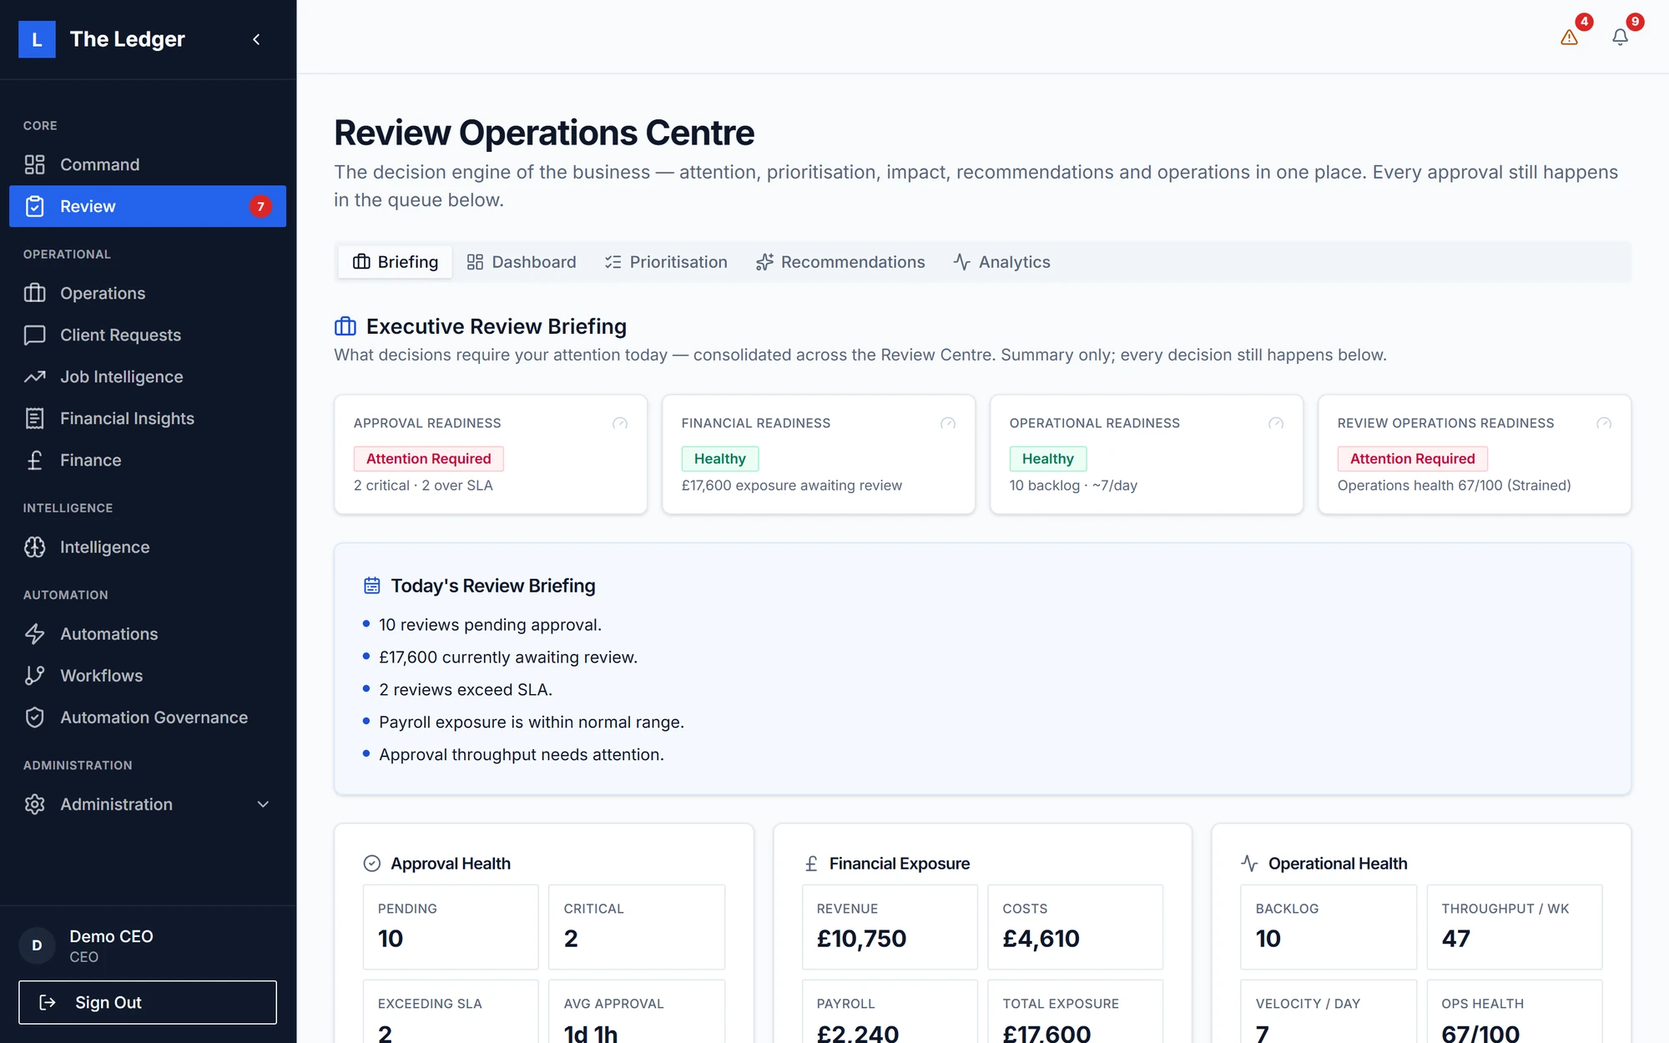
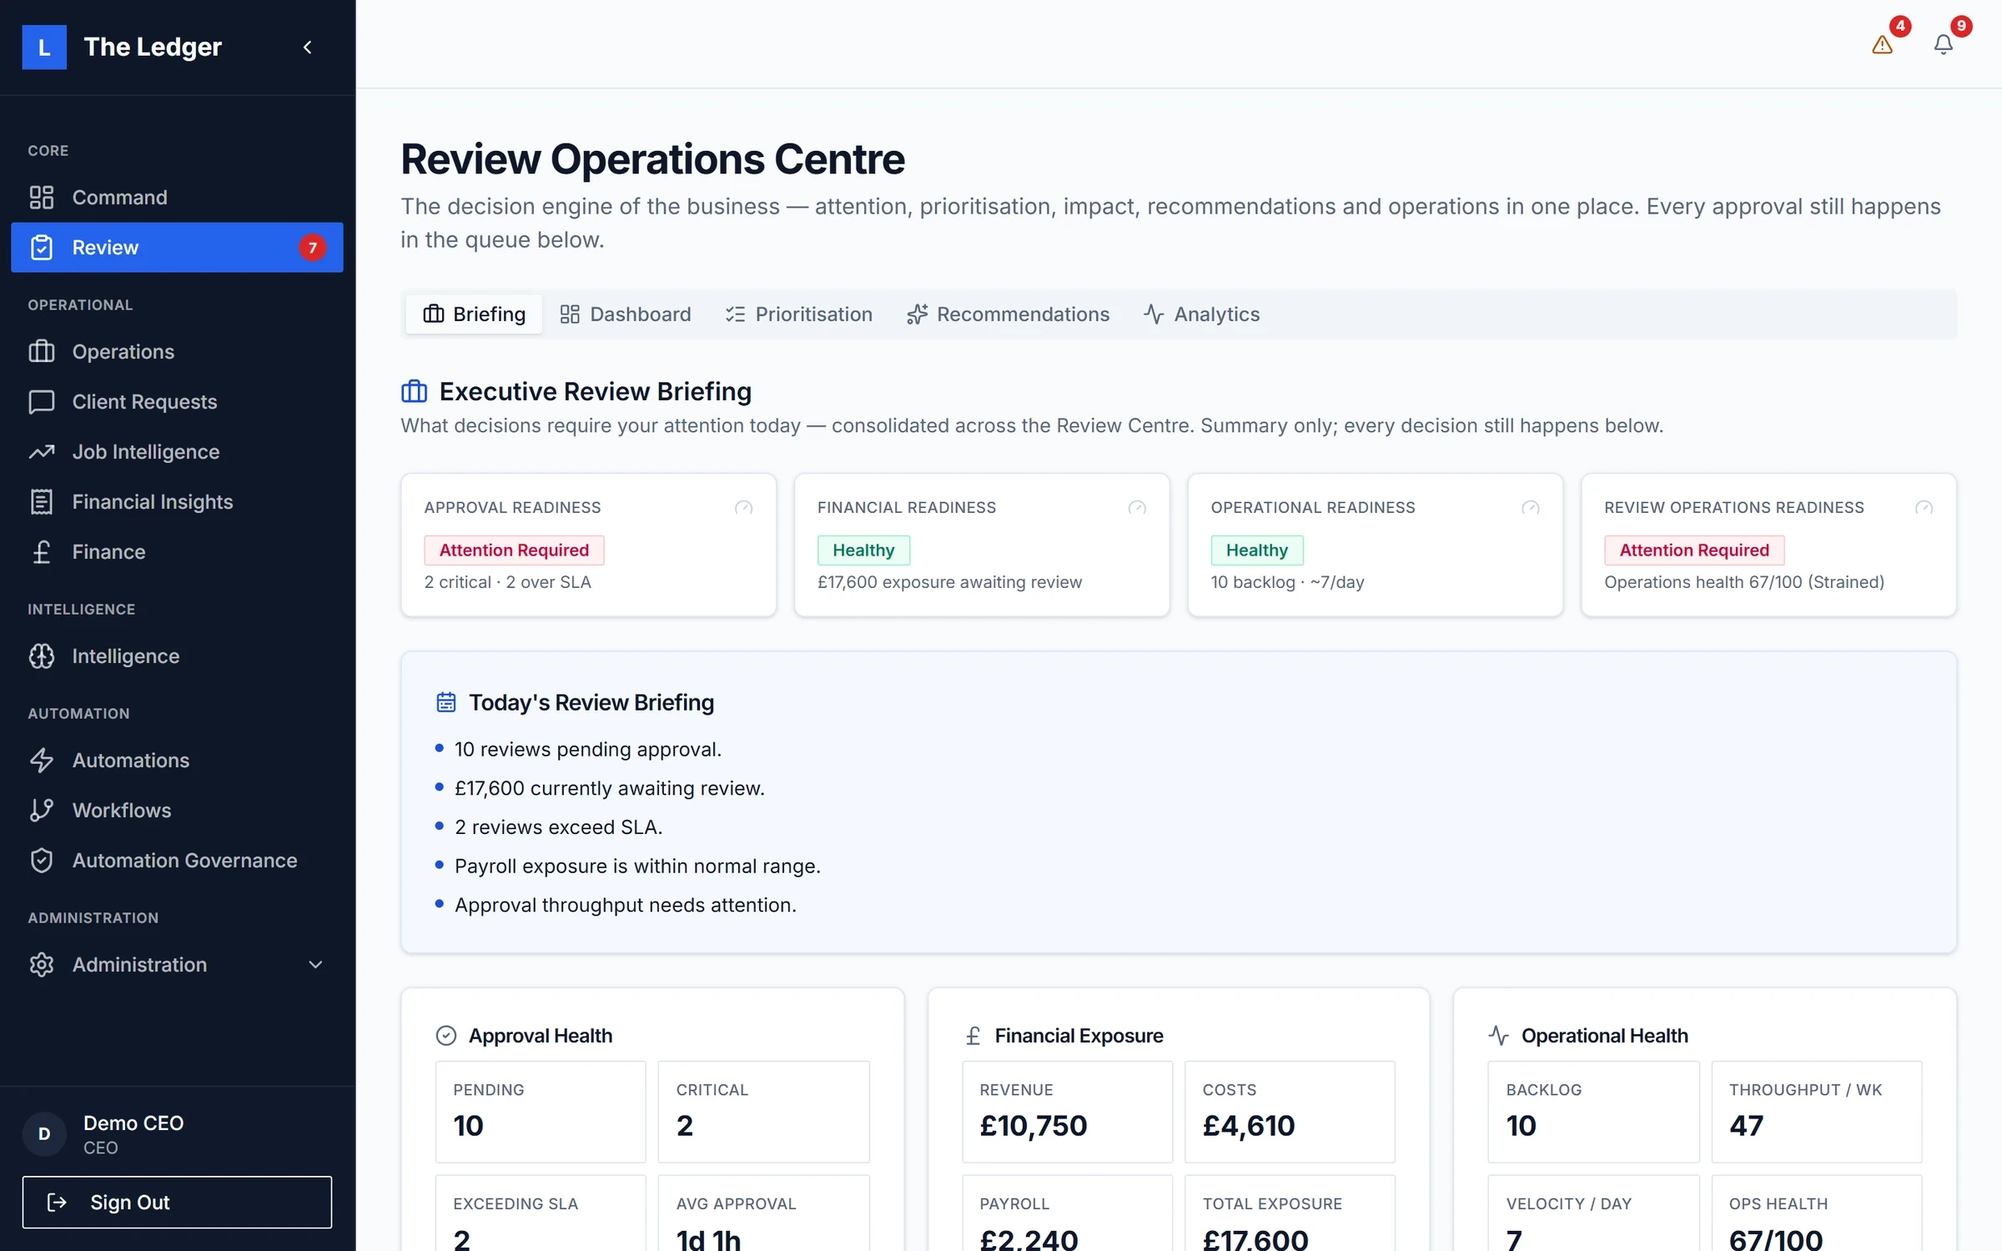
Case studies: peeking 5-slide carousel, high-res captures, technical captions
Centre slide large with half-cut neighbours; arrows, dots, keys, click-to-centre.
All images re-captured at 2x from the live sites and local Ledger (all roles + client portal).
Drive Pro slide flags the Facebook-imported posts. TWB uses new page sections.

Claude-Session: https://claude.ai/code/session_01MwiYMVwt332RJDN3aMr7pJ

diff --git a/src/views.js b/src/views.js
@@ -17,10 +17,13 @@ function caseHTML(id) {
   const bars = c.bars ? `<figure class="chart v-bars v-rise"><figcaption>${esc(c.bars.caption)}</figcaption>${c.bars.rows.map((r) => `<div class="bar-row"><span class="bar-label">${esc(r.label)}</span><span class="track" role="img" aria-label="${esc(r.label)}: ${esc(r.val)}"><i class="fill${r.warn ? ' warn' : ''}" style="--w:${r.w}%${r.lo ? `;--lo:${(r.lo / r.w * 100).toFixed(1)}%` : ''}"></i></span><b class="val">${esc(r.val)}</b></div>`).join('')}<p class="fig-note">${esc(c.bars.note)}</p></figure>` : '';
   const shot = c.shot ? `<figure class="v-shot v-rise"><div class="v-shot-bar" aria-hidden="true"><i></i><i></i><i></i></div><img src="${esc(c.shot.src)}" alt="${esc(c.shot.alt)}" width="1440" height="900" decoding="async">${c.shot.mobile ? `<img class="shot-phone" src="${esc(c.shot.mobile)}" alt="The same page on a phone" width="390" height="844" decoding="async">` : ''}</figure>` : '';
   const n = c.gallery ? c.gallery.length : 0;
-  const gallery = n ? `<section class="v-gal v-rise" role="region" aria-roledescription="carousel" aria-label="${esc(c.title)} screenshots" tabindex="-1">
-    <div class="v-shot-bar" aria-hidden="true"><i></i><i></i><i></i></div>
-    <div class="v-gal-track" tabindex="0" aria-label="Screenshots, use the arrow keys to move between them">${c.gallery.map((g, k) => `<figure class="v-gal-slide" role="group" aria-roledescription="slide" aria-label="${k + 1} of ${n}"><img src="${esc(g.src)}" alt="${esc(g.alt)}" width="1440" height="900" decoding="async"${k ? ' loading="lazy"' : ''}>${k === 0 && c.shot && c.shot.mobile ? `<img class="shot-phone" src="${esc(c.shot.mobile)}" alt="The same product on a phone" width="390" height="844" decoding="async">` : ''}<figcaption>${esc(g.cap)}</figcaption></figure>`).join('')}</div>
-    <div class="v-gal-ctl"><button type="button" class="v-gal-btn" data-dir="-1" aria-label="Previous screenshot">${ARROW_L}</button><div class="v-gal-dots" role="group" aria-label="Choose a screenshot">${c.gallery.map((g, k) => `<button type="button" data-i="${k}" aria-label="Screenshot ${k + 1}"${k ? '' : ' aria-current="true"'}></button>`).join('')}</div><span class="v-gal-n" aria-live="polite">1 / ${n}</span><button type="button" class="v-gal-btn" data-dir="1" aria-label="Next screenshot">${ARROW_R}</button></div>
+  const gallery = n ? `<section class="v-gal v-rise" role="region" aria-roledescription="carousel" aria-label="${esc(c.title)} screenshots">
+    <div class="v-gal-stage">
+      <div class="v-gal-track" tabindex="0" aria-label="Screenshots. Use the left and right arrow keys to move between them.">${c.gallery.map((g, k) => `<figure class="v-gal-slide${k ? '' : ' is-active'}" role="group" aria-roledescription="slide" aria-label="${k + 1} of ${n}"><div class="v-gal-frame"><img src="${esc(g.src)}" alt="${esc(g.alt)}" width="2400" height="1500" decoding="async"${k > 1 ? ' loading="lazy"' : ''}>${g.tag ? `<span class="v-gal-tag">${esc(g.tag)}</span>` : ''}</div><figcaption>${esc(g.cap)}</figcaption></figure>`).join('')}</div>
+      <button type="button" class="v-gal-btn v-gal-prev" data-dir="-1" aria-label="Previous screenshot">${ARROW_L}</button>
+      <button type="button" class="v-gal-btn v-gal-next" data-dir="1" aria-label="Next screenshot">${ARROW_R}</button>
+    </div>
+    <div class="v-gal-ctl"><div class="v-gal-dots" role="group" aria-label="Choose a screenshot">${c.gallery.map((g, k) => `<button type="button" data-i="${k}" aria-label="Screenshot ${k + 1}"${k ? '' : ' aria-current="true"'}></button>`).join('')}</div><span class="v-gal-n" aria-live="polite">1 / ${n}</span></div>
   </section>` : '';
   const embed = c.embed ? `<figure class="v-shot embed v-rise"><div class="shot-bar"><i aria-hidden="true"></i><i aria-hidden="true"></i><i aria-hidden="true"></i><span class="embed-title">Live dashboard · fully interactive</span><button class="embed-exit" type="button">Done</button><a class="embed-open" href="${esc(c.embed.src)}" target="_blank" rel="noopener">Open full screen${ARROW_UR}</a></div><iframe tabindex="-1" src="${esc(c.embed.src)}" title="${esc(c.embed.title)}" loading="lazy"></iframe><button class="embed-veil" type="button" aria-label="Activate the interactive dashboard"><span>Click to explore</span></button></figure>` : '';
   const sections = c.sections.map((s) => `<section class="v-sec v-rise"><h2>${esc(s.h)}</h2><ul>${s.items.map((t) => `<li>${esc(t)}</li>`).join('')}</ul></section>`).join('');
@@ -36,8 +39,9 @@ function caseHTML(id) {
     <p class="v-lede v-rise">${c.lede}</p>
     <dl class="v-facts v-rise">${c.facts.map((f) => `<div><dt>${esc(f.l)}</dt><dd>${esc(f.n)}</dd></div>`).join('')}</dl>
     ${embed}
+    ${gallery}
     <div class="v-body">
-      <div class="v-main">${flow}${bars}${sections}${n ? gallery : shot}</div>
+      <div class="v-main">${flow}${bars}${sections}${n ? '' : shot}</div>
       <aside class="v-side v-rise" aria-label="Details">
         <h3>Built with</h3>
         <ul class="v-tags">${c.stack.map((t) => `<li>${esc(t)}</li>`).join('')}</ul>
@@ -149,22 +153,35 @@ export function initViews({ gsap, lenis, scrollTo }) {
     const slides = [...track.children];
     const dots = [...g.querySelectorAll('.v-gal-dots button')];
     const num = g.querySelector('.v-gal-n');
-    const prev = g.querySelector('[data-dir="-1"]');
-    const next = g.querySelector('[data-dir="1"]');
+    const prev = g.querySelector('.v-gal-prev');
+    const next = g.querySelector('.v-gal-next');
     let cur = 0;
     const set = (k) => {
       if (k === cur) return;
       cur = k;
+      slides.forEach((s, j) => s.classList.toggle('is-active', j === k));
       dots.forEach((d, j) => (j === k ? d.setAttribute('aria-current', 'true') : d.removeAttribute('aria-current')));
       num.textContent = `${k + 1} / ${slides.length}`;
       prev.disabled = k === 0; next.disabled = k === slides.length - 1;
     };
     prev.disabled = true;
-    const go = (k) => { k = Math.max(0, Math.min(slides.length - 1, k)); track.scrollTo({ left: slides[k].offsetLeft - track.offsetLeft, behavior: 'smooth' }); };
-    const onScroll = () => set(Math.round(track.scrollLeft / (slides[0].offsetWidth || 1)));
+    const go = (k) => {
+      k = Math.max(0, Math.min(slides.length - 1, k));
+      const s = slides[k];
+      track.scrollTo({ left: s.offsetLeft - (track.clientWidth - s.offsetWidth) / 2, behavior: 'smooth' });
+      set(k);
+    };
+    const onScroll = () => {
+      const mid = track.scrollLeft + track.clientWidth / 2;
+      let best = 0, d = Infinity;
+      slides.forEach((s, j) => { const dd = Math.abs(s.offsetLeft + s.offsetWidth / 2 - mid); if (dd < d) { d = dd; best = j; } });
+      set(best);
+    };
     const onClick = (e) => {
-      const b = e.target.closest('button'); if (!b) return;
-      if (b.dataset.dir) go(cur + +b.dataset.dir); else if (b.dataset.i) go(+b.dataset.i);
+      const b = e.target.closest('button');
+      if (b) { if (b.dataset.dir) go(cur + +b.dataset.dir); else if (b.dataset.i) go(+b.dataset.i); return; }
+      const s = e.target.closest('.v-gal-slide');
+      if (s) { const k = slides.indexOf(s); if (k !== cur) go(k); }
     };
     const onKey = (e) => {
       if (e.key === 'ArrowRight') { e.preventDefault(); go(cur + 1); }
@@ -173,7 +190,7 @@ export function initViews({ gsap, lenis, scrollTo }) {
     track.addEventListener('scroll', onScroll, { passive: true });
     track.addEventListener('keydown', onKey);
     g.addEventListener('click', onClick);
-    g.querySelectorAll('img').forEach((img) => img.addEventListener('error', () => { const f = img.closest('.v-gal-slide'); if (img.classList.contains('shot-phone')) img.remove(); else f.classList.add('missing'); }, { once: true }));
+    g.querySelectorAll('img').forEach((img) => img.addEventListener('error', () => img.closest('.v-gal-slide').classList.add('missing'), { once: true }));
     galCleanup = () => { track.removeEventListener('scroll', onScroll); track.removeEventListener('keydown', onKey); g.removeEventListener('click', onClick); };
   }
 

diff --git a/src/views.css b/src/views.css
@@ -164,26 +164,31 @@
 
 .v-sec h2 { font-size: var(--fs-xs); line-height: 1.2; }
 
-/* slide gallery (case studies) */
-.v-gal { position: relative; margin: 0; border: 1px solid var(--s-line); border-radius: var(--r-md); overflow: hidden; background: rgba(127, 127, 127, .08); }
-.v-gal-track { display: flex; overflow-x: auto; scroll-snap-type: x mandatory; scroll-behavior: smooth; scrollbar-width: none; outline-offset: -3px; overscroll-behavior-x: contain; }
+/* slide gallery (case studies): centre slide large, neighbours peeking either side */
+.v-gal { margin: clamp(40px, 6vw, 80px) calc(50% - 50vw) 0; position: relative; }
+.v-gal-stage { position: relative; }
+.v-gal-track { display: flex; gap: 2.4%; padding-inline: 19%; overflow-x: auto; scroll-snap-type: x mandatory; scroll-behavior: smooth; scrollbar-width: none; overscroll-behavior-x: contain; outline-offset: -3px; padding-block: 8px 4px; }
 .v-gal-track::-webkit-scrollbar { display: none; }
-.v-gal-slide { position: relative; flex: 0 0 100%; margin: 0; scroll-snap-align: start; scroll-snap-stop: always; }
-.v-gal-slide > img:not(.shot-phone) { display: block; width: 100%; height: auto; aspect-ratio: 16 / 10; object-fit: cover; object-position: top; }
-.v-gal-slide figcaption { padding: 12px 16px; border-top: 1px solid var(--s-line); font-family: var(--mono); font-size: var(--fs-xs); letter-spacing: .04em; color: var(--s-mut); }
-.v-gal-slide.missing > img { visibility: hidden; }
-.v-gal-slide.missing::before { content: "Screenshot unavailable"; position: absolute; inset: 0 0 46px; display: grid; place-items: center; font-family: var(--mono); font-size: var(--fs-xs); color: var(--s-mut); }
-.v-gal-ctl { display: flex; align-items: center; justify-content: space-between; gap: 12px; padding: 10px 12px; border-top: 1px solid var(--s-line); }
-.v-gal-btn { display: grid; place-items: center; width: 44px; height: 44px; border: 1px solid var(--s-line); border-radius: 50%; background: none; color: inherit; font-size: 1.1rem; cursor: pointer; transition: background-color .16s ease, color .16s ease, border-color .16s ease, opacity .16s ease, transform .16s var(--ease); }
+.v-gal-slide { flex: 0 0 62%; margin: 0; scroll-snap-align: center; scroll-snap-stop: always; cursor: pointer; opacity: .42; transform: scale(.88); transform-origin: center top; transition: opacity .5s cubic-bezier(.23, 1, .32, 1), transform .5s cubic-bezier(.23, 1, .32, 1); }
+.v-gal-slide.is-active { opacity: 1; transform: none; cursor: default; }
+.v-gal-frame { position: relative; aspect-ratio: 16 / 10; overflow: hidden; border: 1px solid var(--s-line); border-radius: var(--r-md); background: rgba(127, 127, 127, .12); box-shadow: 0 30px 70px -30px rgba(0, 0, 0, .55); }
+.v-gal-frame img { position: absolute; inset: 0; width: 100%; height: 100%; object-fit: cover; object-position: top; }
+.v-gal-tag { position: absolute; left: 14px; bottom: 14px; padding: 7px 14px; border-radius: var(--r-pill); background: var(--s-acc); color: var(--s-bg); font-family: var(--mono); font-size: var(--fs-xs); letter-spacing: .06em; text-transform: uppercase; }
+.v-gal-slide figcaption { max-width: 62ch; margin: 16px auto 0; text-align: center; font-size: var(--fs-md); line-height: 1.5; color: var(--s-ink); opacity: 0; transition: opacity .4s ease; }
+.v-gal-slide.is-active figcaption { opacity: 1; }
+.v-gal-slide.missing .v-gal-frame::after { content: "Screenshot unavailable"; position: absolute; inset: 0; display: grid; place-items: center; font-family: var(--mono); font-size: var(--fs-xs); color: var(--s-mut); }
+.v-gal-slide.missing img { visibility: hidden; }
+.v-gal-btn { position: absolute; top: calc((62vw * .625) / 2 - 24px); display: grid; place-items: center; width: 48px; height: 48px; border: 1px solid var(--s-line); border-radius: 50%; background: var(--s-bg); color: var(--s-ink); font-size: 1.15rem; cursor: pointer; z-index: 2; transition: background-color .16s ease, color .16s ease, border-color .16s ease, opacity .16s ease, transform .16s cubic-bezier(.23, 1, .32, 1); }
+.v-gal-prev { left: clamp(10px, 4.5%, 70px); }
+.v-gal-next { right: clamp(10px, 4.5%, 70px); }
 .v-gal-btn:active { transform: scale(.94); }
-.v-gal-btn:disabled { opacity: .35; cursor: default; }
-.v-gal-dots { display: flex; gap: 2px; margin-inline: auto; }
+.v-gal-btn:disabled { opacity: .3; cursor: default; }
+.v-gal-ctl { display: flex; align-items: center; justify-content: center; gap: 18px; margin-top: 6px; }
+.v-gal-dots { display: flex; }
 .v-gal-dots button { position: relative; width: 28px; height: 44px; padding: 0; border: 0; background: none; cursor: pointer; }
-.v-gal-dots button::after { content: ""; position: absolute; left: 50%; top: 50%; width: 8px; height: 8px; margin: -4px 0 0 -4px; border-radius: 50%; background: var(--s-line); transition: transform .24s var(--ease), background-color .24s ease; }
+.v-gal-dots button::after { content: ""; position: absolute; left: 50%; top: 50%; width: 8px; height: 8px; margin: -4px 0 0 -4px; border-radius: 50%; background: var(--s-line); transition: transform .24s cubic-bezier(.23, 1, .32, 1), background-color .24s ease; }
 .v-gal-dots button[aria-current="true"]::after { background: var(--s-acc); transform: scale(1.5); }
-.v-gal-n { font-family: var(--mono); font-size: var(--fs-xs); letter-spacing: .08em; color: var(--s-mut); min-width: 3.5em; text-align: right; }
+.v-gal-n { font-family: var(--mono); font-size: var(--fs-xs); letter-spacing: .08em; color: var(--s-mut); }
 .v-gal :focus-visible { outline: 2px solid var(--s-acc); outline-offset: 2px; }
-@media (hover: hover) and (pointer: fine) { .v-gal-btn:not(:disabled):hover { background: var(--s-ink); color: var(--s-bg); border-color: var(--s-ink); } }
-@media (max-width: 640px) { .v-gal-n { display: none; } .v-gal-dots button { width: 22px; } }
-.v-gal-slide > .shot-phone { position: absolute; inset: auto 3% 62px auto; width: 17%; height: auto; border-radius: var(--r-lg); border: 3px solid #111; box-shadow: 0 18px 50px -14px rgba(0,0,0,.6); object-fit: cover; background: #111; }
-@media (max-width: 720px) { .v-gal-slide > .shot-phone { width: 24%; inset: auto 4% 56px auto; } }
+@media (hover: hover) and (pointer: fine) { .v-gal-btn:not(:disabled):hover { background: var(--s-ink); color: var(--s-bg); border-color: var(--s-ink); } .v-gal-slide:not(.is-active):hover { opacity: .7; } }
+@media (max-width: 720px) { .v-gal-track { padding-inline: 10%; gap: 3%; } .v-gal-slide { flex-basis: 80%; } .v-gal-btn { top: calc((80vw * .625) / 2 - 20px); width: 40px; height: 40px; } .v-gal-prev { left: 4px; } .v-gal-next { right: 4px; } .v-gal-slide figcaption { font-size: var(--fs-sm, .9rem); } }

diff --git a/src/cases.js b/src/cases.js
@@ -64,7 +64,13 @@ export const CASES = {
       ] },
     ],
     shot: { mobile: 'shots/ledger-worker-mobile.webp', src: 'shots/ledger-review-centre.webp', alt: 'Screenshot of The Ledger Review Centre, shown with invented demo data' },
-    gallery: [{ src: 'shots/ledger-review-centre.webp', alt: 'The Ledger Review Centre', cap: 'Review Centre: the briefing, approvals and readiness in one place' }, { src: 'shots/ledger-review-detail.webp', alt: "A job's pending submissions awaiting approval", cap: 'Pending reports and photos, each approved or rejected on the record' }, { src: 'shots/ledger-reject.webp', alt: 'Reject dialog that requires a reason', cap: 'Rejection needs a reason, and nothing becomes financially real' }, { src: 'shots/ledger-job.webp', alt: 'Job detail showing approved revenue, cost and margin', cap: 'A job as a mini-ledger: revenue, cost, margin and health score' }, { src: 'shots/ledger-schedule.webp', alt: 'Operations schedule for the week', cap: 'Schedule with workforce utilisation and net contribution' }, { src: 'shots/ledger-finance.webp', alt: 'Finance invoicing table', cap: 'Invoicing, with statuses from draft to paid' }, { src: 'shots/ledger-portal.webp', alt: 'Read-only client portal dashboard', cap: 'The client portal: read-only, scoped to one client' }],
+    gallery: [
+      { src: 'shots/ledger-1-review.webp', alt: 'Review Operations Centre showing the executive briefing and approval health', cap: 'Review Centre: derives pending approvals, financial exposure and SLA breaches from the work submitted.' },
+      { src: 'shots/ledger-2-approve.webp', alt: "Reject dialog on a job's pending submission, requiring a written reason", cap: 'Approval gate: a rejection must carry a reason, and nothing becomes a financial record until work is approved.' },
+      { src: 'shots/ledger-3-schedule.webp', alt: 'Operations schedule for a week with utilisation and contribution figures', cap: 'Schedule: workforce utilisation and net contribution are calculated from the jobs placed on the week.' },
+      { src: 'shots/ledger-4-worker.webp', alt: 'Three phone screens of the worker app: home, jobs and schedule', cap: 'Worker app: its own mobile navigation, built around an offline queue that syncs when the signal returns.' },
+      { src: 'shots/ledger-5-portal.webp', alt: 'Client portal dashboard showing projects, sites and recent activity', cap: "Client portal: a separate read-only app, scoped to one client's sites, jobs and invoices." },
+    ],
     stack: ['TypeScript', 'React 19', 'Vite', 'Tailwind', 'Zustand', 'TanStack Query', 'Playwright', 'axe-core'],
     links: [{ label: 'Repository', href: 'https://github.com/pascalskan/The-Ledger' }],
   },
@@ -88,7 +94,13 @@ export const CASES = {
       ] },
     ],
     shot: { mobile: 'shots/twb-mobile.webp', src: 'shots/twb.webp', alt: 'Screenshot of the Travel Without Borders website' },
-    gallery: [{ src: 'shots/twb.webp', alt: 'Travel Without Borders home page', cap: 'Home page' }, { src: 'shots/twb-destinations.webp', alt: 'Travel Without Borders destinations page', cap: 'Destinations' }, { src: 'shots/twb-bavaria.webp', alt: 'Travel Without Borders Bavaria page', cap: 'A destination page: Bavaria' }],
+    gallery: [
+      { src: 'shots/twb-1-hero.webp', alt: 'Travel Without Borders home page with logo, navigation and hero carousel', cap: 'Header and hero: restyled through design tokens in a child theme, so the live site keeps receiving WordPress updates.' },
+      { src: 'shots/twb-2-germany.webp', alt: 'Germany introduction band with a castle photograph', cap: 'Intro band: a single reusable layout component, shared across the destination pages.' },
+      { src: 'shots/twb-3-interest.webp', alt: 'Special Interest Holidays card carousel', cap: 'Card carousel: the same card component with its images resized, which cut desktop image weight by 46%.' },
+      { src: 'shots/twb-4-events.webp', alt: 'Special Events card carousel with festival photographs', cap: 'Events carousel: the card component reused, with slider controls styled from the shared tokens.' },
+      { src: 'shots/twb-5-reviews.webp', alt: 'Traveller testimonials slider', cap: 'Testimonials slider: a themed component that uses the same tokens as the rest of the site.' },
+    ],
     stack: ['PHP', 'WordPress', 'CSS / JS', 'GA4'],
     links: [{ label: 'Visit the live site', href: 'https://travelwithoutborders.co.uk' }],
   },
@@ -112,7 +124,13 @@ export const CASES = {
       ] },
     ],
     shot: { mobile: 'shots/drivepro-mobile.webp', src: 'shots/drivepro.webp', alt: 'Screenshot of the M.G. Drive Pro website' },
-    gallery: [{ src: 'shots/drivepro.webp', alt: 'M.G. Drive Pro home page', cap: 'Home page' }, { src: 'shots/dp-lessons.webp', alt: 'M.G. Drive Pro lessons page', cap: 'Lessons' }, { src: 'shots/dp-prices.webp', alt: 'M.G. Drive Pro prices page', cap: 'Prices' }, { src: 'shots/dp-contact.webp', alt: 'M.G. Drive Pro contact page', cap: 'Contact' }],
+    gallery: [
+      { src: 'shots/dp-1-hero.webp', alt: 'M.G. Drive Pro home page hero', cap: 'Home page: static HTML, CSS and JS with WebP images and contrast fixes to meet WCAG AA.' },
+      { src: 'shots/dp-2-lessons.webp', alt: 'List of seven lesson types', cap: 'Lessons: one page covers seven lesson types, each reached by an anchor link from the home page.' },
+      { src: 'shots/dp-3-reviews.webp', alt: 'Student reviews section', cap: 'Reviews: written as static content, so they load instantly and can be indexed by search engines.' },
+      { src: 'shots/dp-4-facebook.webp', alt: "Recent success stories: three posts from the instructor's Facebook page shown as cards", cap: "Imported from Facebook: posts are pulled from the instructor's page, images load from Facebook's CDN and each card links back to the original post.", tag: 'Imported from Facebook' },
+      { src: 'shots/dp-5-prices.webp', alt: 'Pricing options: pay as you go, block booking and intensive courses', cap: 'Prices: the enquiry buttons lead to the form handled by the FastAPI backend.' },
+    ],
     stack: ['HTML / CSS / JS', 'Python', 'FastAPI', 'PostgreSQL'],
     links: [{ label: 'Visit the site', href: 'https://mgdrivepro.co.uk' }],
   },
